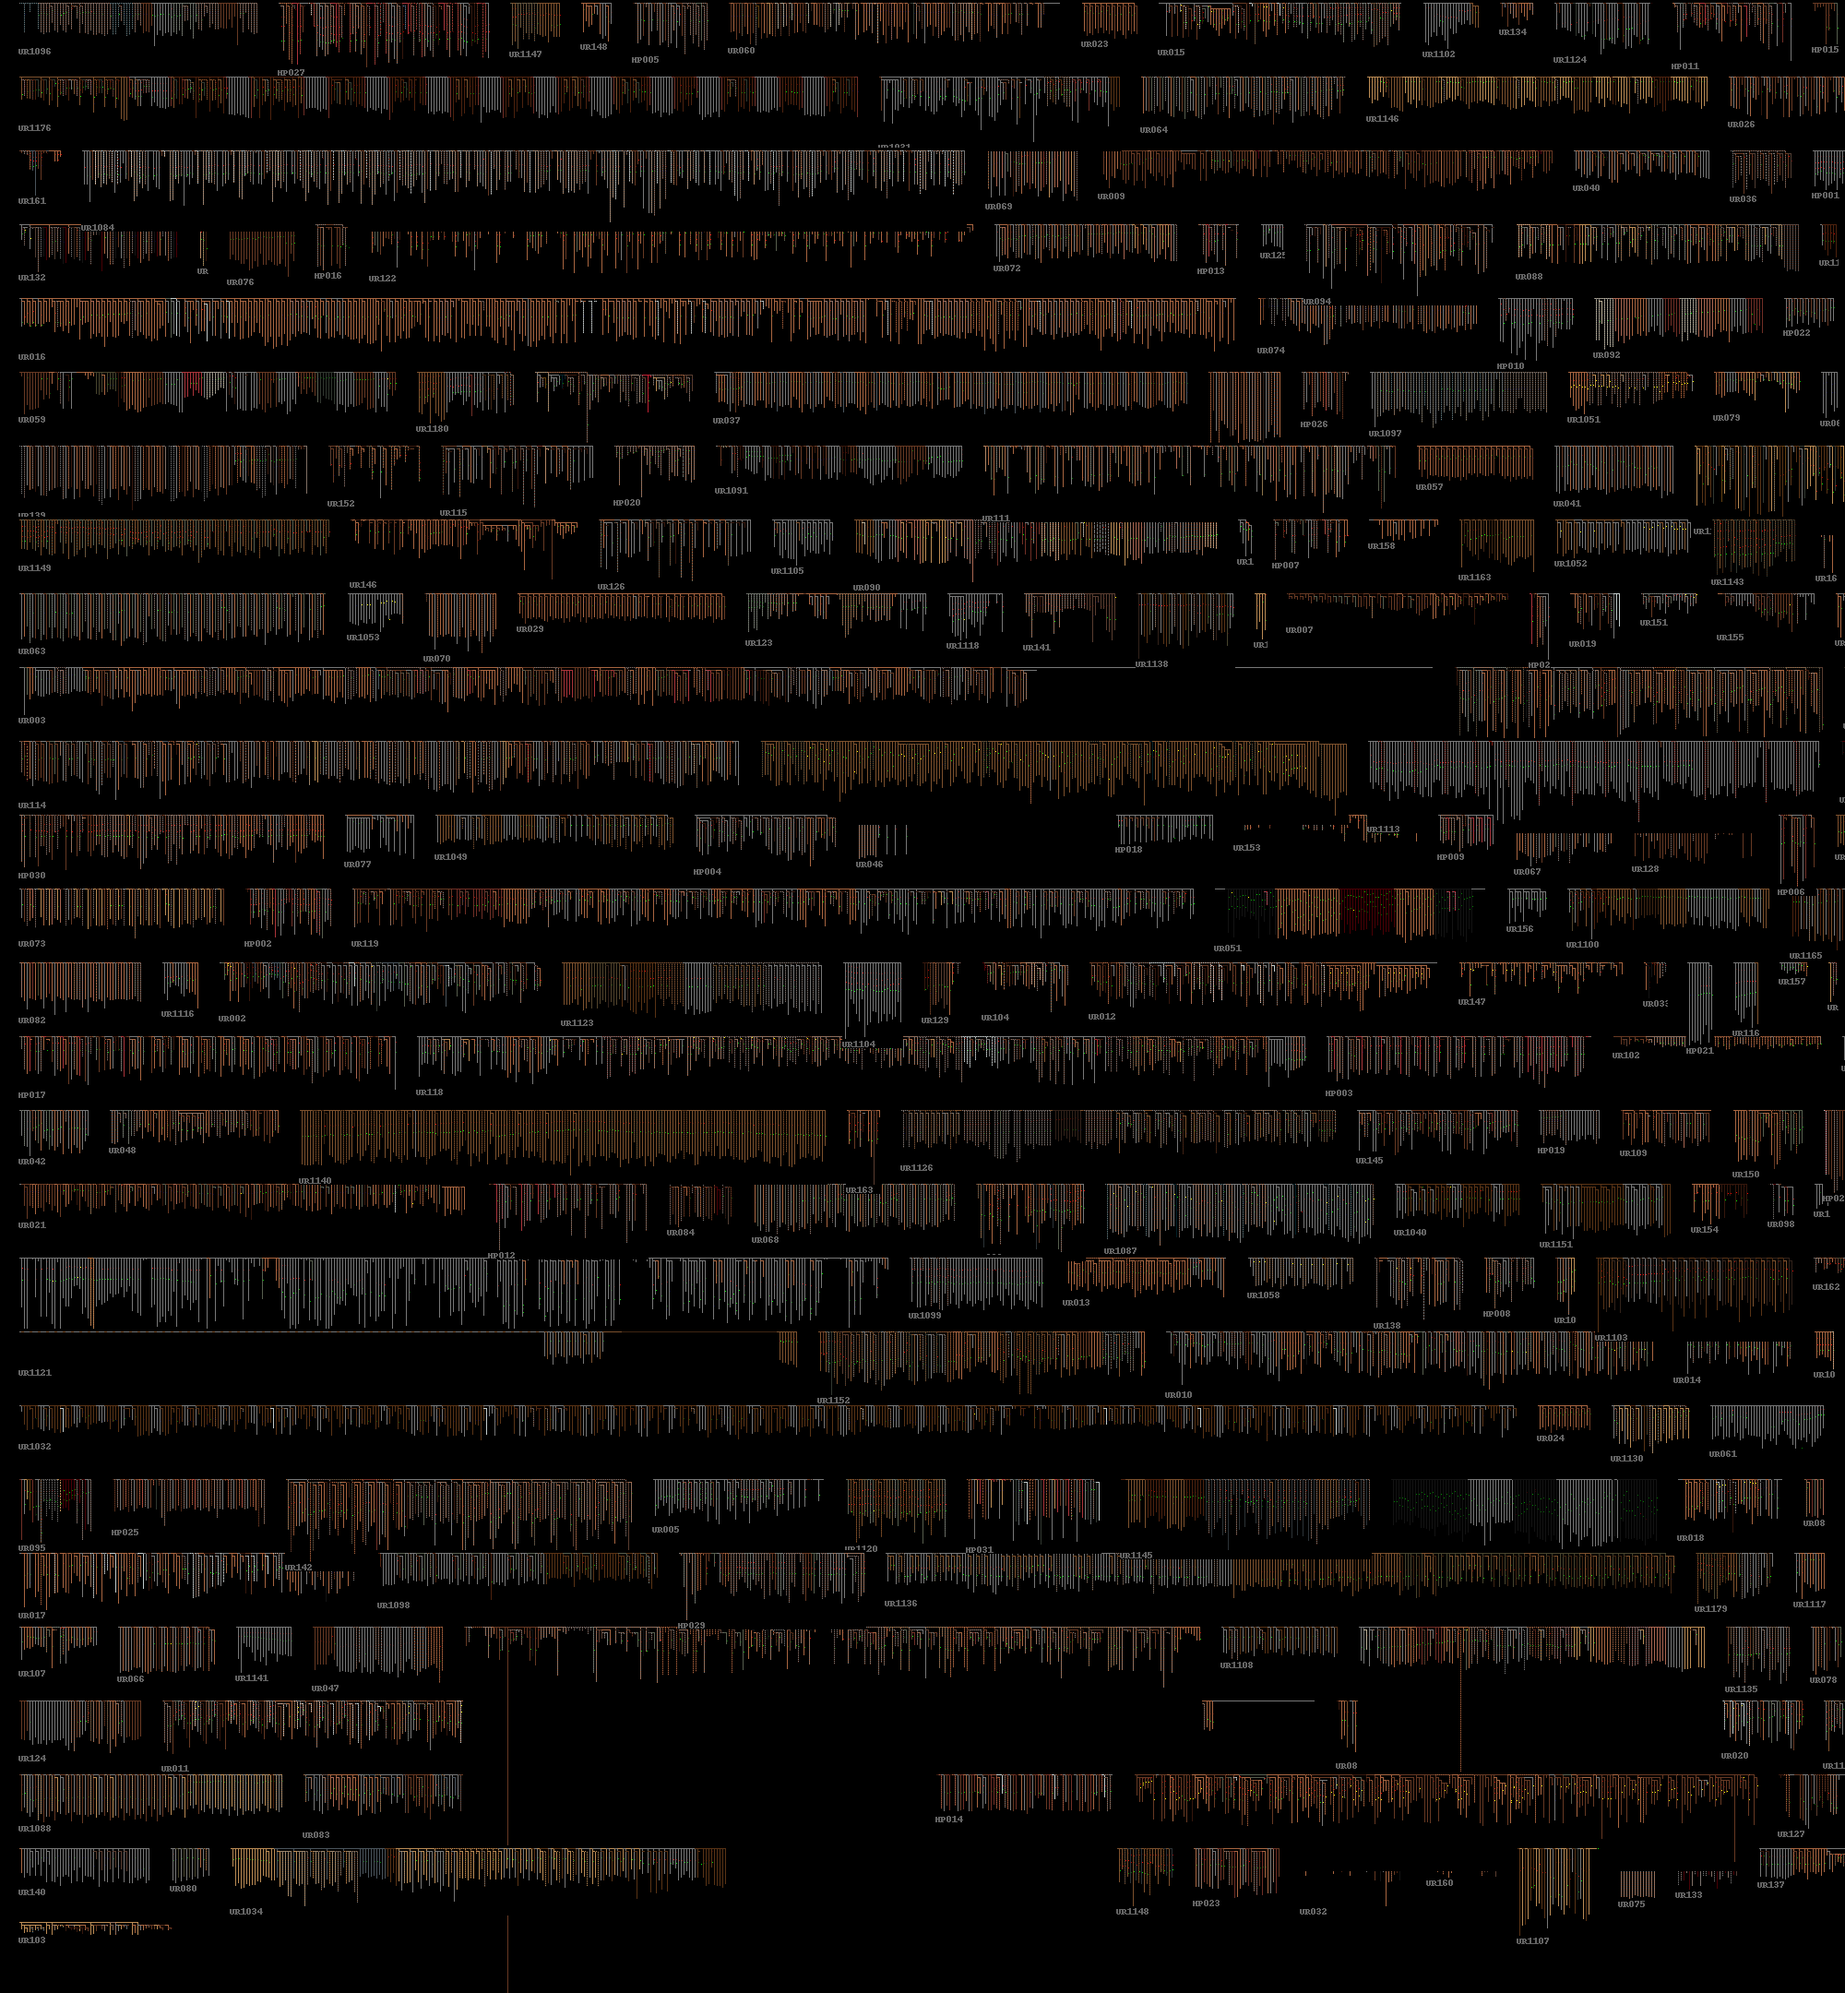
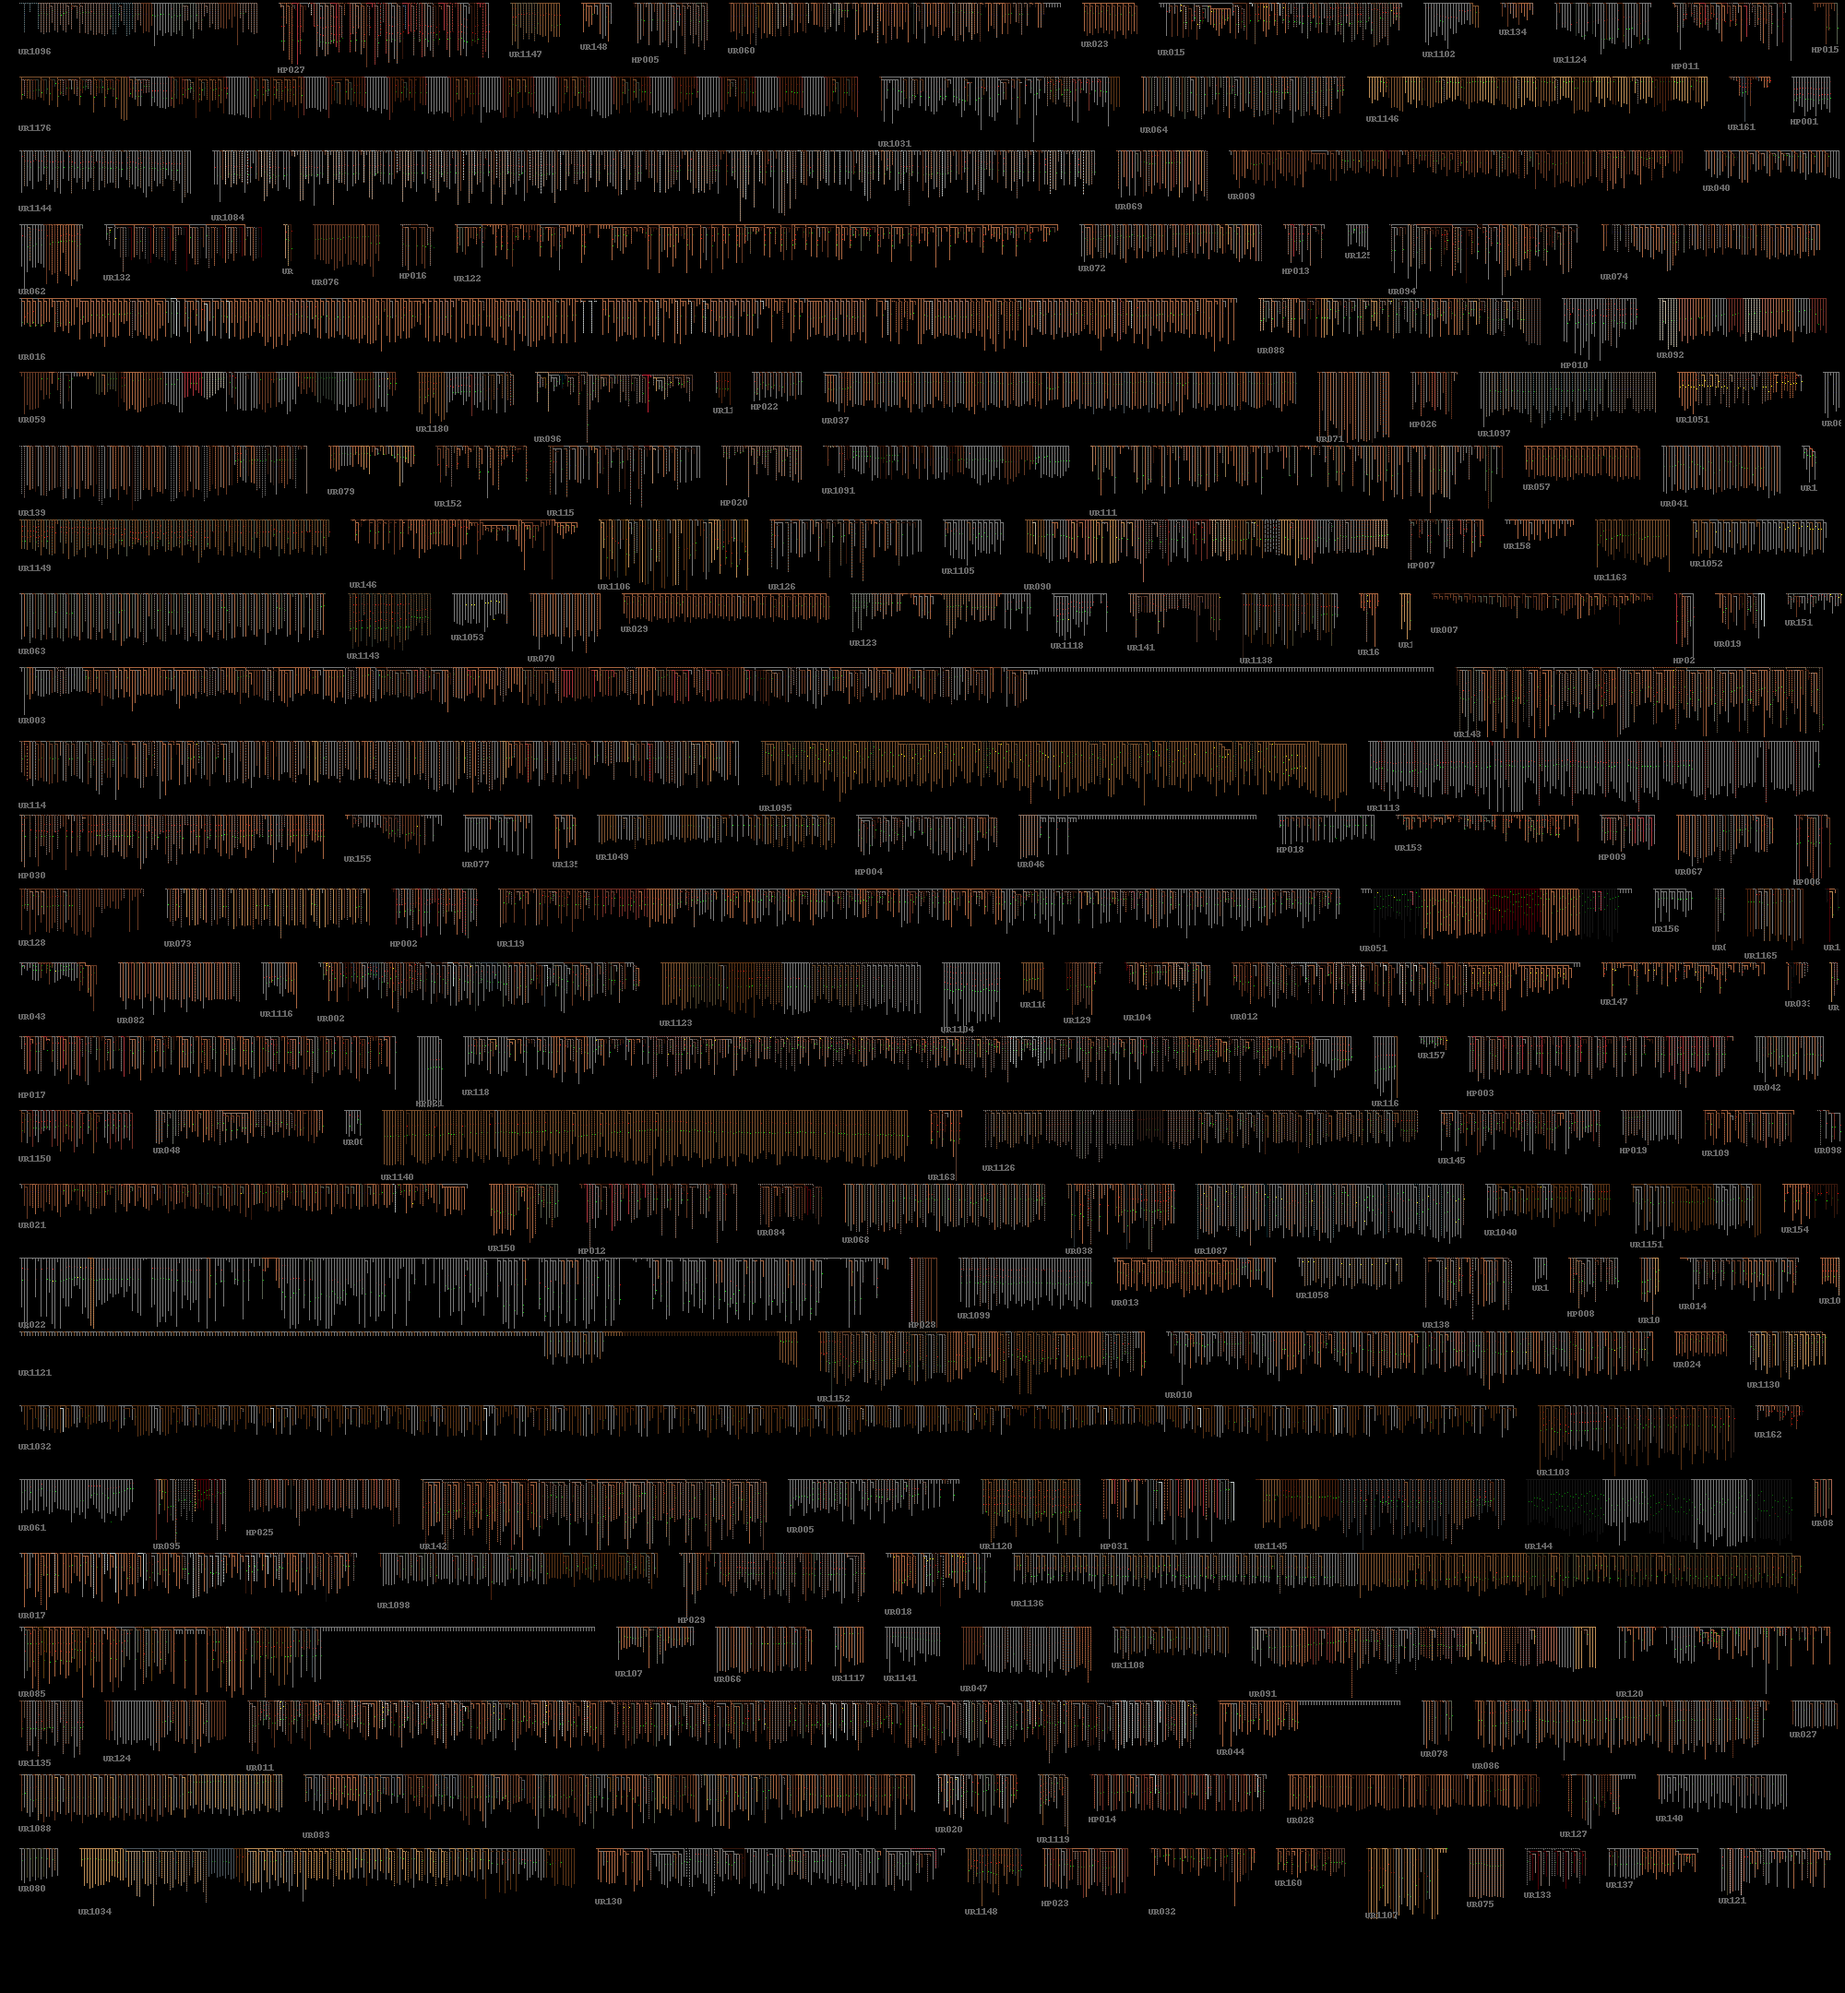
entropy pixels

Changed region(s): [[0.0, 0.4032, 1.0, 0.9616], [0.0, 0.031, 1.0, 0.3412], [0.186, 0.2792, 0.248, 0.3412]]

diff --git a/quipupixel.py b/quipupixel.py
@@ -24,16 +24,26 @@ import sys
 import os
 import xlrd
 from quipulib import *
+import entropy
 
 _NUMERALS = '0123456789abcdefABCDEF'
 _HEXDEC = {v: int(v, 16) for v in (x+y for x in _NUMERALS for y in _NUMERALS)}
 
+_max_entropy = 0
+_min_entropy = 999
+
+max_height = 80
+
+def reset_entropy():
+    global _max_entropy
+    global _min_entropy
+    _max_entropy = 0
+    _min_entropy = 999
+
+
 def rgb(triplet):
     return _HEXDEC[triplet[0:2]], _HEXDEC[triplet[2:4]], _HEXDEC[triplet[4:6]]
 
-def safe_plot(pixels,x,y,c):
-    if x>0 and x<pixels.shape[1] and y>0 and y<pixels.shape[0]:
-        pixels[y,x]=c
 
 
 class pendant:
@@ -45,11 +55,13 @@ class pendant:
         self.knots = knots
         if length=="": self.length=0
         else: self.length = float(length)
+        if self.length==0: self.length=5; # default
         self.colours = []
         for c in colours:
             # convert to triples
             self.colours.append(rgb(c[2:-1]))
         self.value = value
+        self.entropy = 0
 
     def add(self,child):
         self.children.append(child)
@@ -61,6 +73,26 @@ class pendant:
                 f = p.find(pid)
                 if f: return f
             return False
+
+    def calc_entropy(self):
+        self.entropy = entropy.calc(self.pprint(0))
+        global _min_entropy
+        global _max_entropy
+
+        if self.entropy<_min_entropy: _min_entropy=self.entropy
+        if self.entropy>_max_entropy: _max_entropy=self.entropy
+
+        for p in self.children:
+            p.calc_entropy()
+
+    def safe_plot(self,pixels,x,y,c):
+        if x>0 and x<pixels.shape[1] and y>0 and y<pixels.shape[0]:
+            if self.entropy!=0:
+                v=(self.entropy-_min_entropy)/(_max_entropy-_min_entropy)
+                v*=255
+                pixels[y,x]=(v,v,v)
+            else:
+                pixels[y,x]=c
 
     def pprint(self,depth):
         out=""
@@ -115,7 +147,7 @@ class pendant:
 
     def render_data(self,pixels,x,y):
         for i in range(0,int(self.length)):
-            safe_plot(pixels,x,y+i,self.colours[i%len(self.colours)])
+            self.safe_plot(pixels,x,y+i,self.colours[i%len(self.colours)])
 
         kcol = self.colours[0]
         for k in self.knots:
@@ -125,7 +157,7 @@ class pendant:
             if k.type=="S": c = (v,0,0)
             if k.type=="L": c = (0,v,0)
             if k.type=="E": c = (0,0,v)
-            safe_plot(pixels,x+1,y+i,c)
+            self.safe_plot(pixels,x+1,y+i,c)
 
     def render(self,pixels,sx,x,y):
         self.render_data(pixels,x,y)
@@ -133,7 +165,7 @@ class pendant:
         tx = sx
         for p in self.children:
             for i in range(tx,x+3):
-                safe_plot(pixels,i,y+3,p.colours[i%len(p.colours)])
+                self.safe_plot(pixels,i,y+3,p.colours[i%len(p.colours)])
             x+=3
             tx+=3
             tx,x=p.render(pixels,tx,x,y+3)
@@ -143,11 +175,13 @@ class pendant:
 def prerender(primary,filename,store):
     h = int(primary.longest_pendant(0))+10
     w = primary.num_pendants()*3
+    h = min(h,max_height)
     store[filename] = [0,0,w,h]
 
 
 def render(primary,filename):
     h = int(primary.longest_pendant(0))+10;
+    h = min(h,max_height)
     im = Image.new("RGB", (primary.num_pendants()*3,h), "black")
 
     pixels=np.array(im)
@@ -161,7 +195,7 @@ def render(primary,filename):
     qname = os.path.basename(filename)[:-4]
     d_usr = d_usr.text((0,h-10),qname,(100,100,100))
 
-    #image.save("pixel/"+qname+".png")
+    image.save("pixel/"+qname+".png")
     return image
 
 
@@ -202,7 +236,7 @@ def parse_to_pendant_tree(quipu):
 
 def find_row(rows,w,maxw):
     for i,r in enumerate(rows):
-        if (r+w)<maxw:
+        if (r+w+20)<maxw:
             rows[i]+=w+20
             return i
     rows.append(0)
@@ -220,9 +254,9 @@ def fit(store):
     for r in store.values():
         row = find_row(rows,r[2],widest)
         r[0]=rows[row]-r[2]
-        r[1]=row*80
+        r[1]=row*max_height
 
-    return (widest,len(rows)*80)
+    return (widest,len(rows)*max_height)
 
 # create the dotfile
 def prerun(filename,store):
@@ -234,6 +268,7 @@ def prerun(filename,store):
         print "problem"
         return False
     primary = parse_to_pendant_tree(quipu)
+    #primary.calc_entropy()
     prerender(primary,filename,store)
     return store
 
@@ -248,7 +283,8 @@ def run(filename):
         return False
 
     primary = parse_to_pendant_tree(quipu)
-
+    #reset_entropy()
+    #primary.calc_entropy()
     #f = open(filename+".json","w")
     #f.write(primary.pprint(0))
     #f.close()
